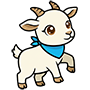
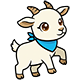
ヤギサイズを80pxに変更

diff --git a/main.js b/main.js
@@ -23,10 +23,10 @@ const SIDE_POWER = 6;
 
 /* ===== プレイヤー（ヤギ）===== */
 const player = {
-  x: canvas.width / 2 - 45,
+  x: canvas.width / 2 - 40,
   y: canvas.height - 120,
-  w: 90,
-  h: 90,
+  w: 80,
+  h: 80,
   vx: 0,
   vy: 0
 };
